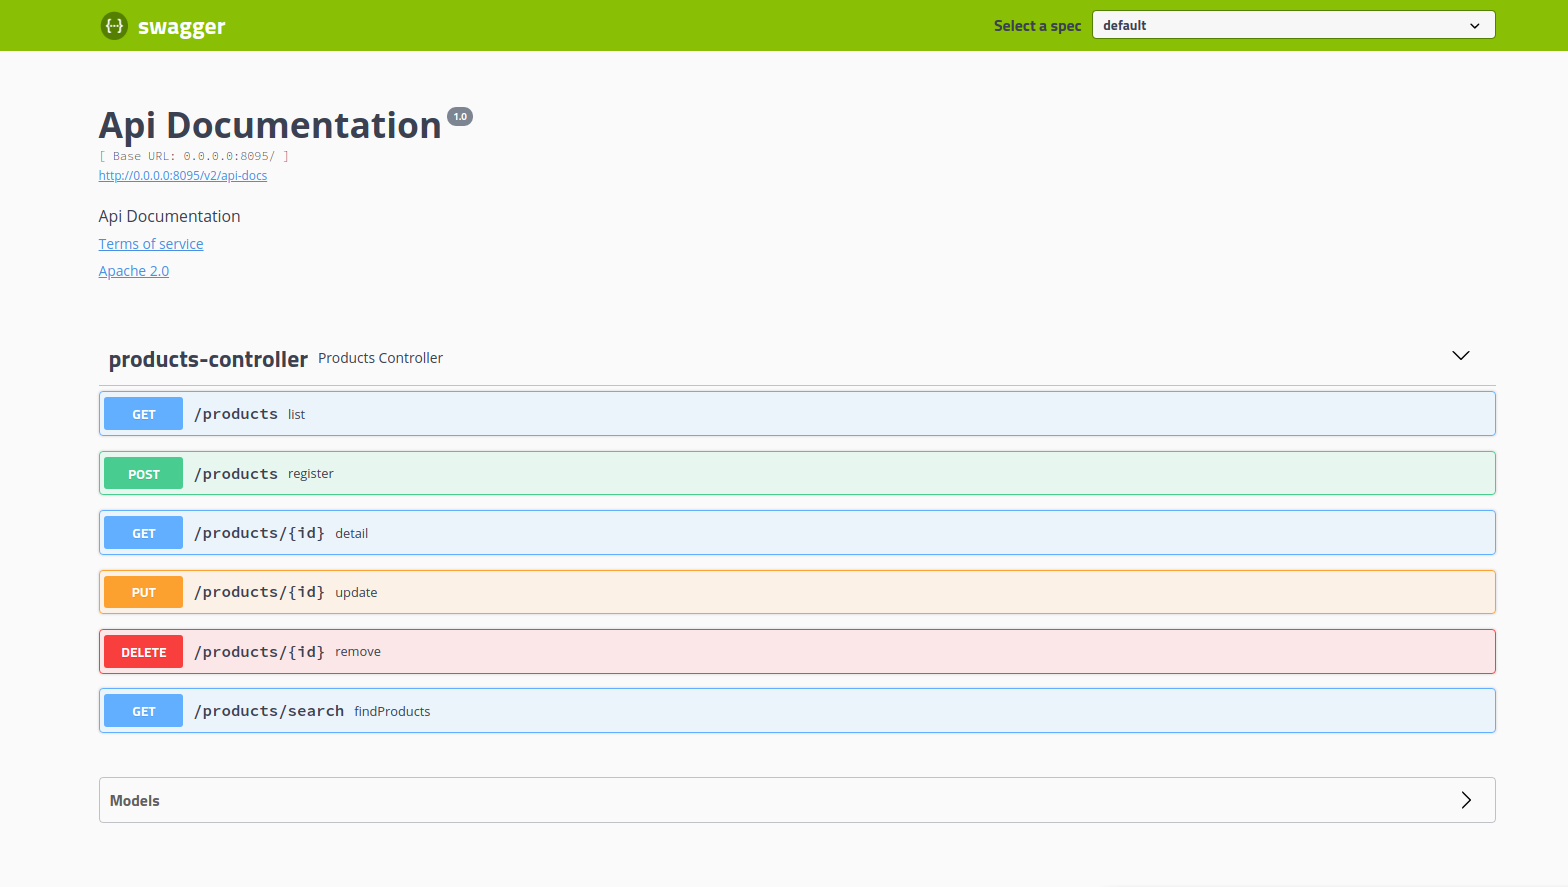
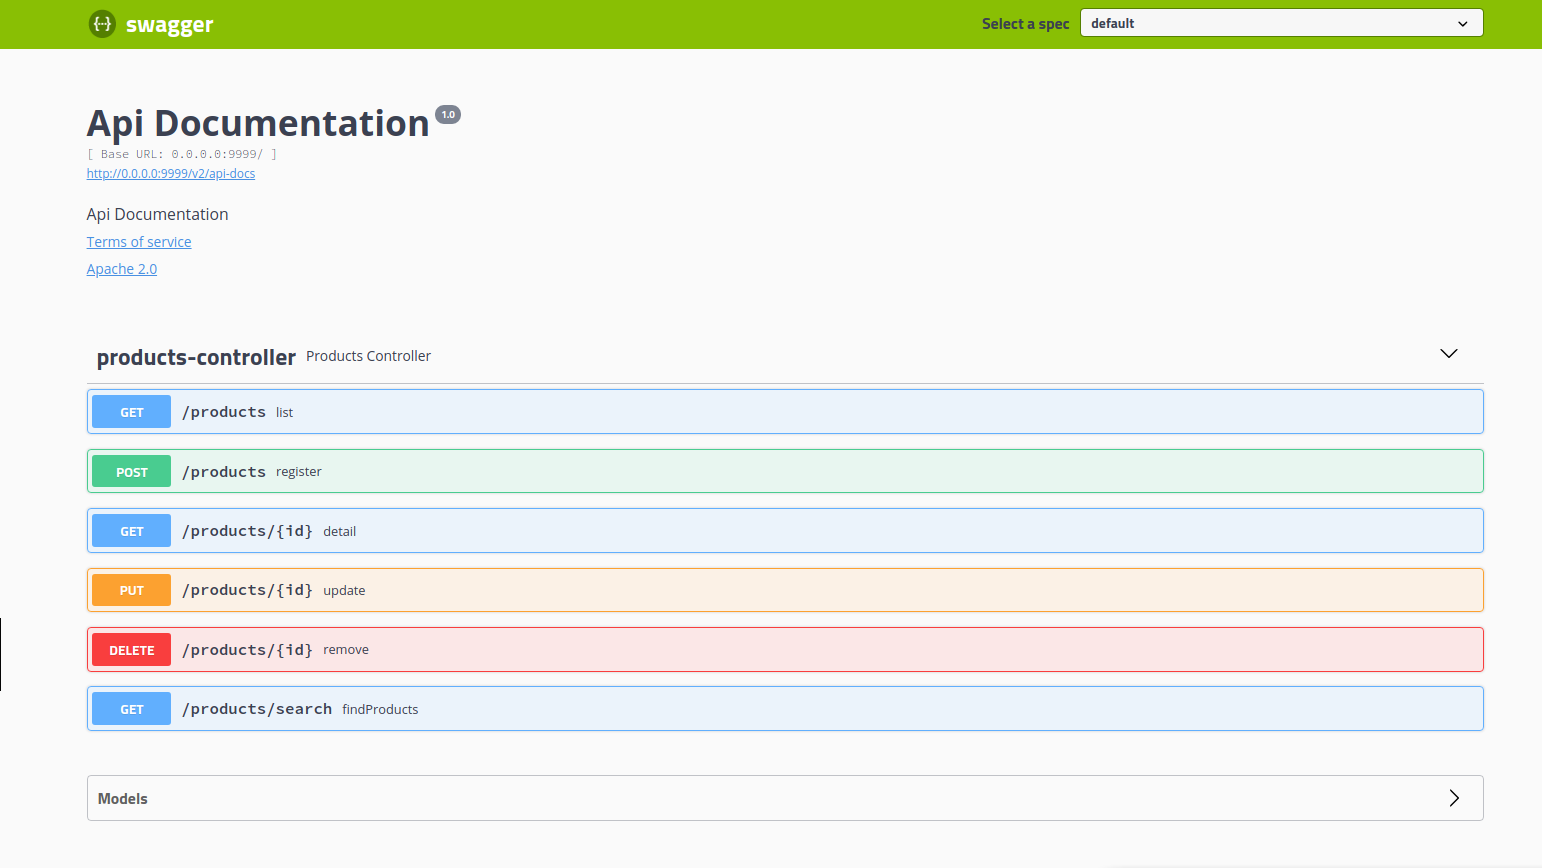
Documentation update

diff --git a/README.md b/README.md
@@ -99,12 +99,14 @@ Existe a possibilidade de subir o projeto via Docker, para isso basta executar o
 docker-compose up --build
 ```
 
-Para acessar e testar os endpoint, foi utilizado a ferramenta o “Postman”.
+Para acessar e testar os endpoints, foi utilizado a ferramenta o “Postman”.
+
+![Screenshot](postman-1.png)
 
 A Documentação da API também pode ser acessada via Swagger, no endereço:
 
 ```shell
-http://0.0.0.0:8095/swagger-ui.html
+http://0.0.0.0:9999/swagger-ui.html
 ```
 
 ![Screenshot](screenshot-1.png)
